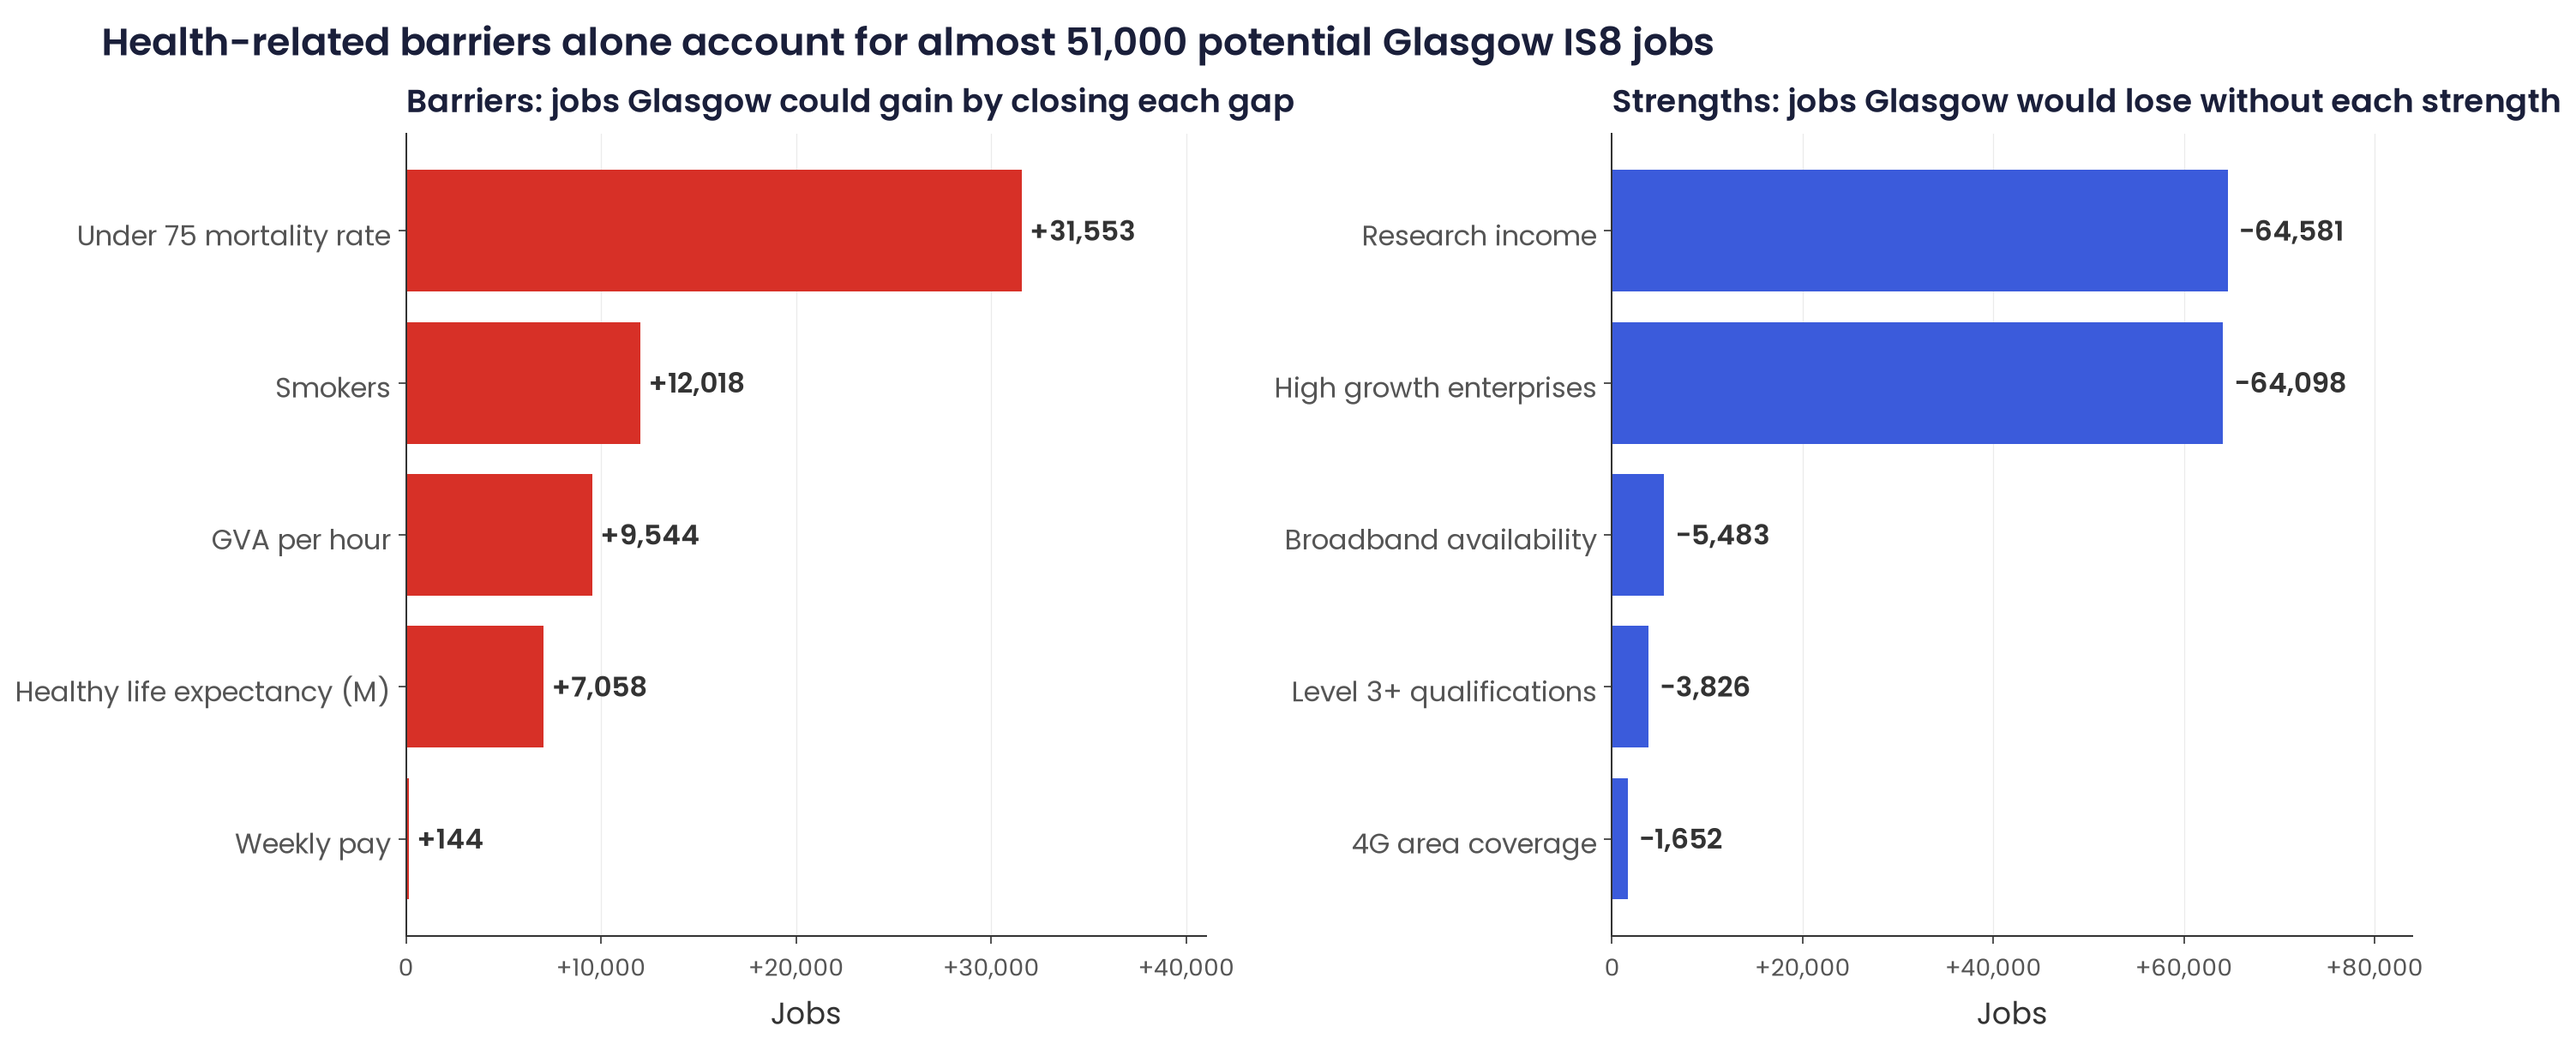
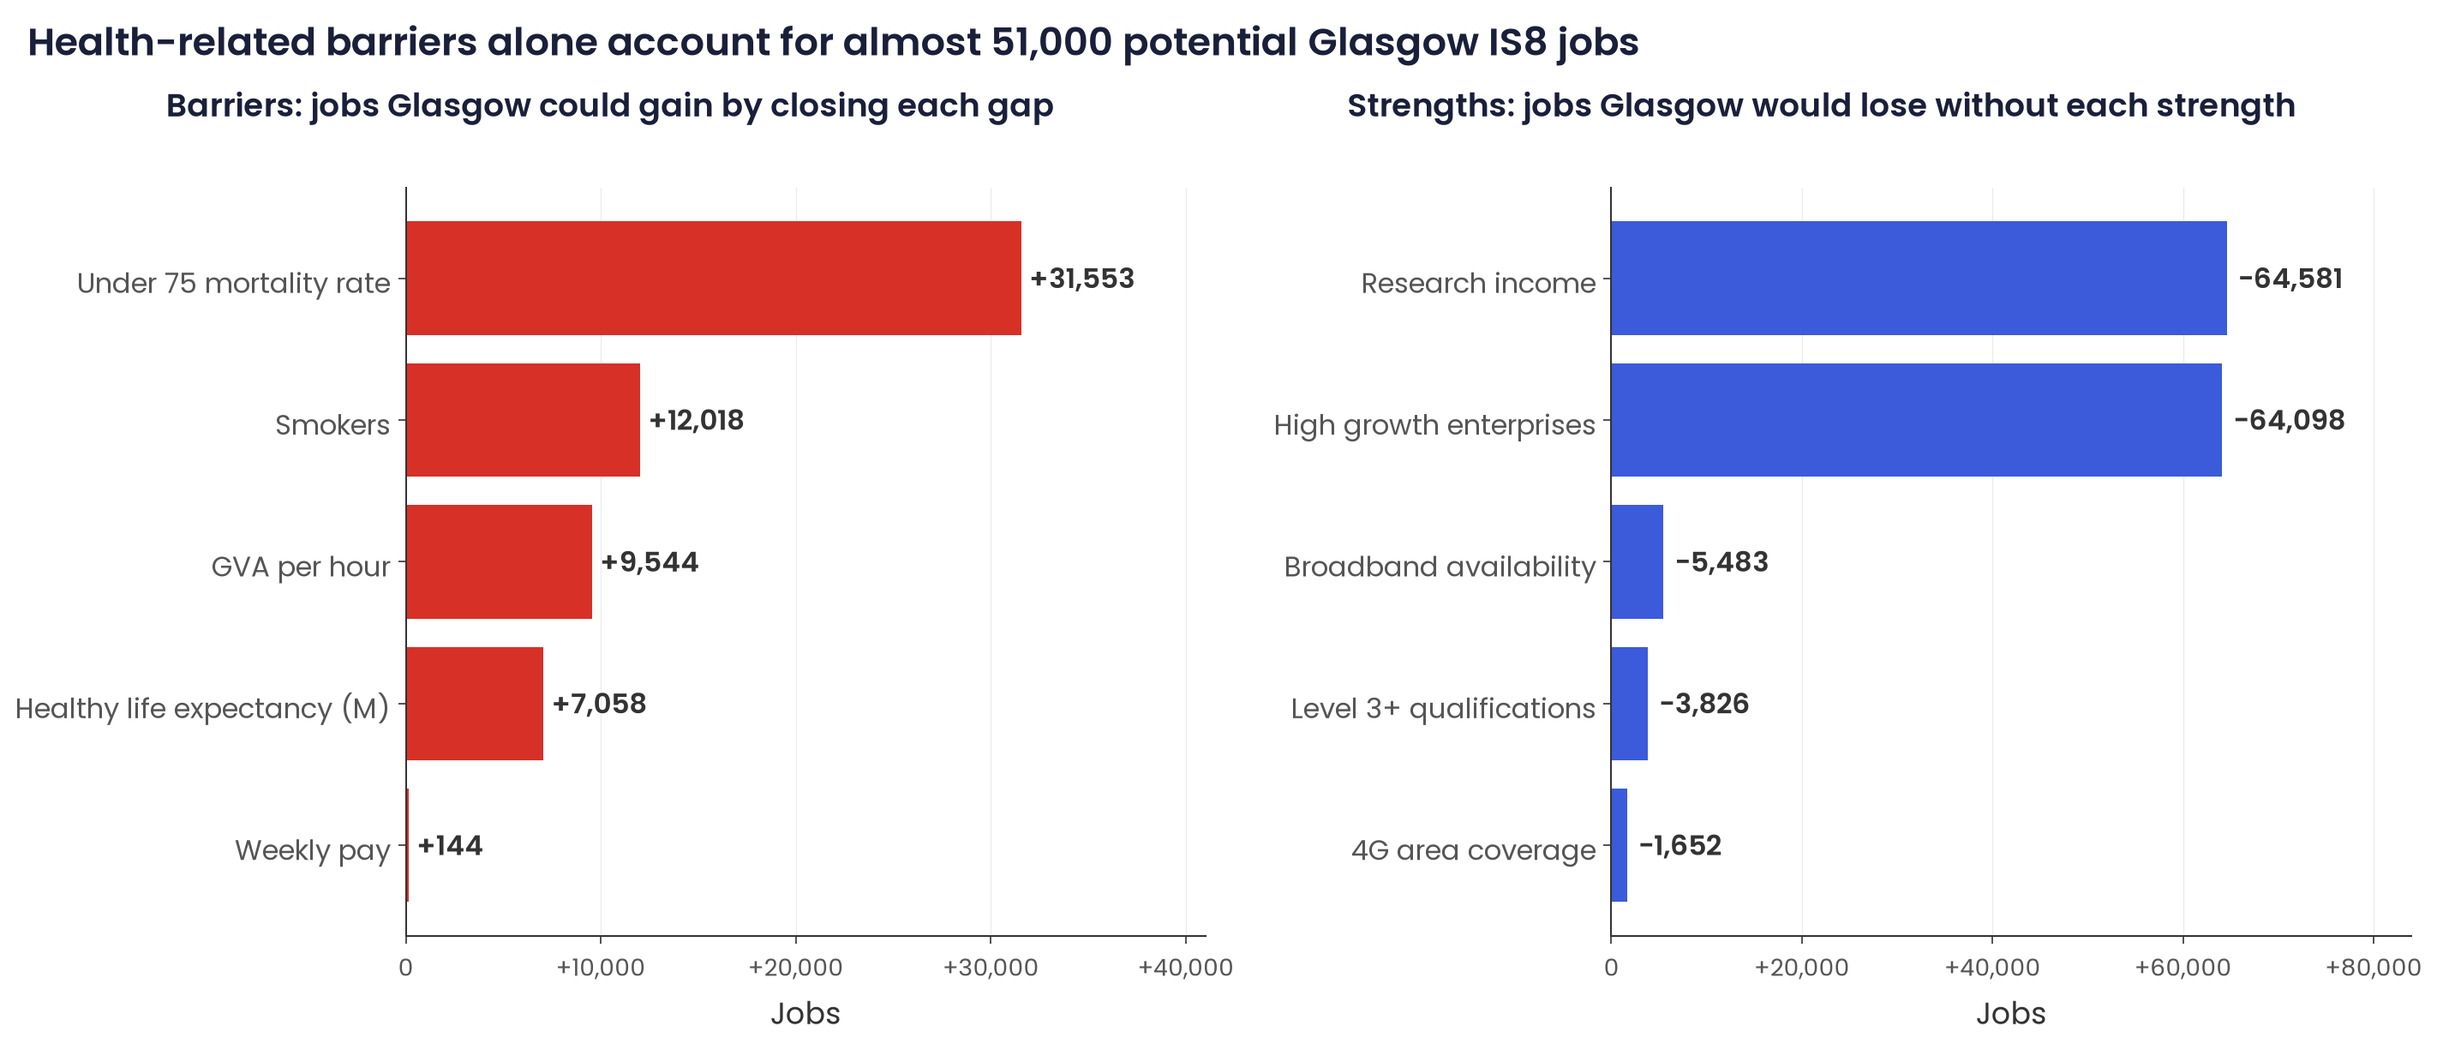
Fine tuning of the strengths and barriers visualisation

diff --git a/scripts/06_figures.py b/scripts/06_figures.py
@@ -791,8 +791,9 @@ for _, row in barriers_df.iterrows():
                  va="center", ha="left", fontsize=13,
                  color=TEXT, fontweight="semibold")
 axes[0].set_xlabel("Jobs", fontsize=14)
-axes[0].set_title("Barriers: jobs Glasgow could gain by closing each gap",
-                  loc="left", color=NAVY, pad=10, fontsize=15)
+axes[0].text(-0.3, 1.08, "Barriers: jobs Glasgow could gain by closing each gap",
+             transform=axes[0].transAxes, color=NAVY,
+             fontsize=15, fontweight="semibold", ha="left", va="bottom")
 axes[0].grid(axis="x", alpha=0.25, linewidth=0.5, zorder=0)
 axes[0].set_axisbelow(True)
 axes[0].tick_params(axis="y", labelsize=13)
@@ -812,8 +813,9 @@ for _, row in strengths_df.iterrows():
                  va="center", ha="left", fontsize=13,
                  color=TEXT, fontweight="semibold")
 axes[1].set_xlabel("Jobs", fontsize=14)
-axes[1].set_title("Strengths: jobs Glasgow would lose without each strength",
-                  loc="left", color=NAVY, pad=10, fontsize=15)
+axes[1].text(-0.33, 1.08, "Strengths: jobs Glasgow would lose without each strength",
+             transform=axes[1].transAxes, color=NAVY,
+             fontsize=15, fontweight="semibold", ha="left", va="bottom")
 axes[1].grid(axis="x", alpha=0.25, linewidth=0.5, zorder=0)
 axes[1].set_axisbelow(True)
 axes[1].tick_params(axis="y", labelsize=13)
@@ -829,11 +831,11 @@ fig.suptitle(
         f"Health-related barriers alone account for almost {int(round(health_jobs / 1000)) * 1000:,} potential Glasgow IS8 jobs",
         fig.get_size_inches()[0], chars_per_inch=10,
     ),
-    x=0.05, y=0.97, ha="left", color=NAVY,
+    x=0.02, y=0.97, ha="left", color=NAVY,
     fontsize=18, fontweight="semibold",
 )
 plt.tight_layout()
-fig.subplots_adjust(top=0.86)
+fig.subplots_adjust(top=0.81)
 save_fig(fig, "06_glasgow_barriers_strengths_jobs")
 
 print("\nDone.")
